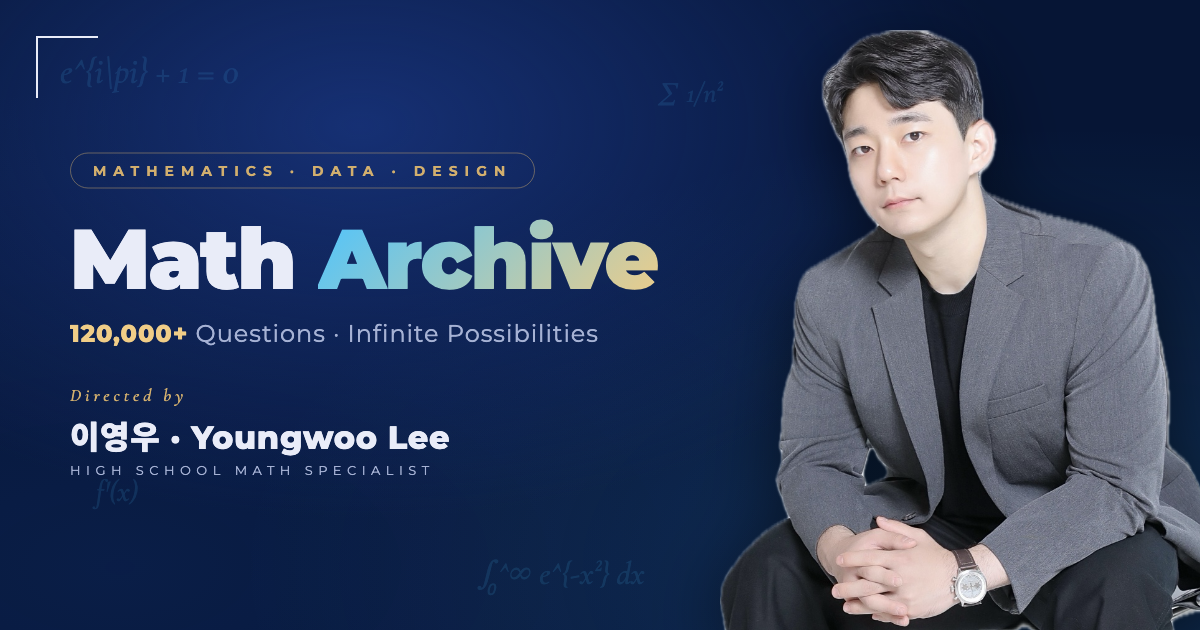
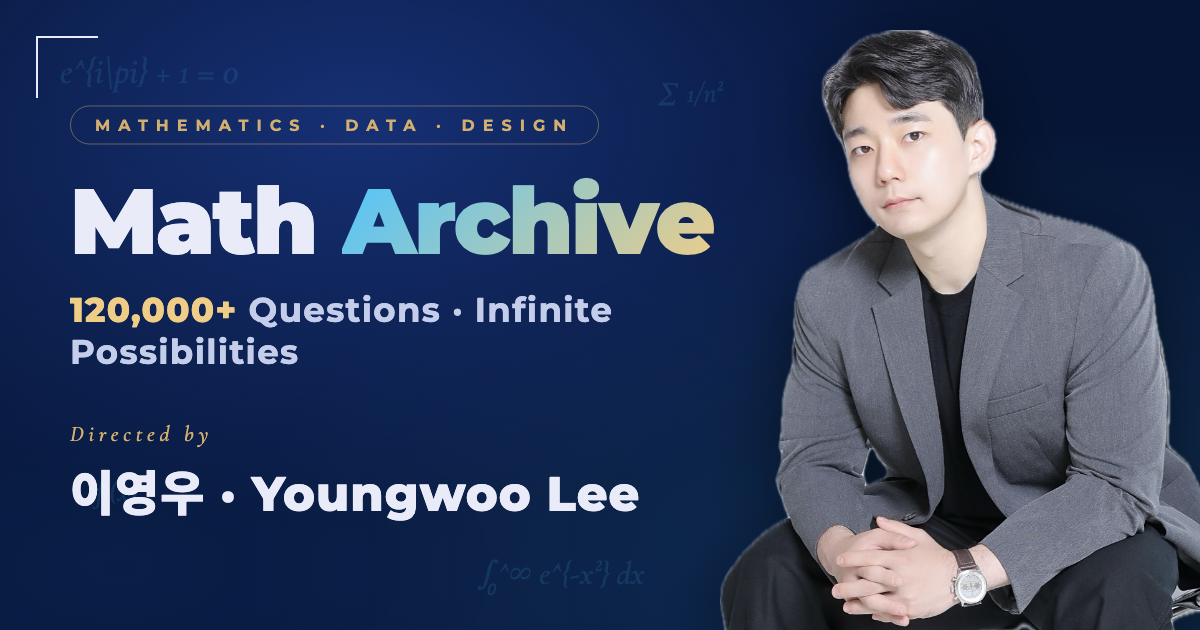
랜딩 글씨 전반 키움 + HIGH SCHOOL MATH SPECIALIST 제거
OG 썸네일
- 'Math Archive' h1 84 → 92px
- '120,000+ Questions...' sub 24 → 34px, weight 500 → 600
- '이영우 · Youngwoo Lee' name 32 → 48px
- 'Directed by' 18 → 22px
- eyebrow 14 → 16px
- 'HIGH SCHOOL MATH SPECIALIST' .role 제거

랜딩 페이지
- 'MATHEMATICS · DATA · DESIGN' eyebrow 11 → 15px, 패딩/마진 확대
- '120,000+ Questions...' sub clamp(15-19) → clamp(20-26), 색상 강화
- 'CORE CAPABILITIES' section-title 12 → 18px
- 원형 카드 글씨 일괄 확대:
  · icon 34 → 38px (highlight 44 → 50)
  · h3 17 → 19px (highlight 22 → 26)
  · sub-ko 13 → 14px, color 강화 (highlight 14 → 16)
  · p 13 → 14px (highlight 14 → 15)
- 'HIGH SCHOOL MATH SPECIALIST' .role 제거

Changed region(s): [[0.0617, 0.1508, 0.6167, 0.6333], [0.0617, 0.6635, 0.555, 0.8444], [0.0617, 0.6032, 0.0925, 0.6333]]

diff --git a/app/auth_ui.py b/app/auth_ui.py
@@ -187,12 +187,12 @@ header[data-testid="stHeader"] { background: transparent !important; }
   display: inline-block;
   font-family: 'Montserrat', sans-serif;
   letter-spacing: 0.45em;
-  font-size: 11px; font-weight: 700;
+  font-size: 15px; font-weight: 700;
   color: var(--gold);
   border: 1px solid rgba(210, 175, 110, 0.4);
-  padding: 6px 18px;
+  padding: 9px 24px;
   border-radius: 999px;
-  margin-bottom: 28px;
+  margin-bottom: 32px;
   text-transform: uppercase;
 }
 .hero h1 {
@@ -212,9 +212,9 @@ header[data-testid="stHeader"] { background: transparent !important; }
 }
 .hero .sub {
   font-family: 'Montserrat', sans-serif;
-  font-weight: 500;
-  font-size: clamp(15px, 1.6vw, 19px);
-  color: var(--text-soft);
+  font-weight: 600;
+  font-size: clamp(20px, 2.0vw, 26px);
+  color: var(--text);
   letter-spacing: 0.04em;
 }
 .hero .sub .num {
@@ -227,11 +227,11 @@ header[data-testid="stHeader"] { background: transparent !important; }
 .section-title {
   font-family: 'Montserrat', sans-serif;
   font-weight: 700;
-  font-size: 12px;
+  font-size: 18px;
   letter-spacing: 0.5em;
   color: var(--gold);
   text-align: center;
-  margin: 60px 0 28px;
+  margin: 64px 0 36px;
   text-transform: uppercase;
 }
 
@@ -277,17 +277,17 @@ header[data-testid="stHeader"] { background: transparent !important; }
               0 0 50px rgba(210, 175, 110, 0.22);
 }
 .feature-circle .icon {
-  font-size: 34px;
-  margin-bottom: 10px;
+  font-size: 38px;
+  margin-bottom: 12px;
   line-height: 1;
 }
 .feature-circle h3 {
   font-family: 'Montserrat', sans-serif;
   font-weight: 800;
-  font-size: 17px;
+  font-size: 19px;
   letter-spacing: 0.12em;
   color: var(--accent-strong);
-  margin: 0 0 6px;
+  margin: 0 0 8px;
   text-transform: uppercase;
   line-height: 1.2;
   text-align: center;
@@ -296,21 +296,21 @@ header[data-testid="stHeader"] { background: transparent !important; }
 }
 .feature-circle .sub-ko {
   font-family: 'Noto Sans KR', sans-serif;
-  font-weight: 500;
-  font-size: 13px;
-  color: var(--text-soft);
+  font-weight: 600;
+  font-size: 14px;
+  color: var(--text);
   letter-spacing: 0.02em;
-  margin-bottom: 10px;
+  margin-bottom: 12px;
   display: block;
   text-align: center;
 }
 .feature-circle p {
   font-family: 'Noto Sans KR', sans-serif;
-  font-size: 13px;
+  font-size: 14px;
   line-height: 1.55;
   color: var(--text-soft);
   margin: 0;
-  max-width: 82%;
+  max-width: 84%;
   text-align: center;
 }
 .feature-circle.highlight {
@@ -323,11 +323,11 @@ header[data-testid="stHeader"] { background: transparent !important; }
 }
 .feature-circle.highlight h3 {
   color: var(--gold-light);
-  font-size: 22px;
+  font-size: 26px;
 }
-.feature-circle.highlight .icon { font-size: 44px; }
-.feature-circle.highlight .sub-ko { font-size: 14px; }
-.feature-circle.highlight p { font-size: 14px; max-width: 84%; }
+.feature-circle.highlight .icon { font-size: 50px; }
+.feature-circle.highlight .sub-ko { font-size: 16px; }
+.feature-circle.highlight p { font-size: 15px; max-width: 86%; }
 .feature-circle.highlight::after {
   content: "FEATURED";
   position: absolute;
@@ -577,7 +577,6 @@ def _render_landing_hero() -> None:
           <div class="profile-text">
             <div class="directed">Directed by</div>
             <p class="name">이영우 · Youngwoo Lee</p>
-            <div class="role">High School Math Specialist</div>
           </div>
         </div>
         """,

diff --git a/scripts/build_og_thumbnail.py b/scripts/build_og_thumbnail.py
@@ -63,21 +63,21 @@ body {{
 }}
 .eyebrow {{
   display: inline-block;
-  font-size: 14px; font-weight: 700;
+  font-size: 16px; font-weight: 700;
   letter-spacing: 0.5em;
   color: #d2af6e;
   border: 1px solid rgba(210, 175, 110, 0.45);
-  padding: 8px 22px;
+  padding: 9px 24px;
   border-radius: 999px;
-  margin-bottom: 28px;
+  margin-bottom: 30px;
   text-transform: uppercase;
 }}
 h1 {{
   font-weight: 900;
-  font-size: 84px;
+  font-size: 92px;
   line-height: 1.0;
   letter-spacing: -0.02em;
-  margin: 0 0 18px;
+  margin: 0 0 22px;
 }}
 h1 .grad {{
   background: linear-gradient(135deg, #4cc4ff 0%, #f0cd87 100%);
@@ -86,32 +86,26 @@ h1 .grad {{
   background-clip: text;
 }}
 .sub {{
-  font-size: 24px;
-  font-weight: 500;
-  color: #a6b2d4;
+  font-size: 34px;
+  font-weight: 600;
+  color: #c4ceea;
   letter-spacing: 0.04em;
-  margin-bottom: 36px;
+  margin-bottom: 48px;
 }}
 .sub .num {{ color: #f0cd87; font-weight: 800; }}
 .directed {{
   font-family: 'Cormorant Garamond', serif;
   font-style: italic;
-  font-size: 18px;
+  font-size: 22px;
   color: #d2af6e;
   letter-spacing: 0.22em;
-  margin-bottom: 6px;
+  margin-bottom: 8px;
 }}
 .name {{
   font-weight: 800;
-  font-size: 32px;
-  margin: 0 0 4px;
+  font-size: 48px;
+  margin: 0;
   letter-spacing: 0.02em;
-}}
-.role {{
-  font-size: 13px;
-  letter-spacing: 0.42em;
-  color: #a6b2d4;
-  text-transform: uppercase;
 }}
 
 /* 우측 누끼 사진 */
@@ -151,7 +145,6 @@ h1 .grad {{
     <div class="sub"><span class="num">120,000+</span> Questions · Infinite Possibilities</div>
     <div class="directed">Directed by</div>
     <h2 class="name">이영우 · Youngwoo Lee</h2>
-    <div class="role">High School Math Specialist</div>
   </div>
 
   <img class="right" src="{profile_uri}" />
